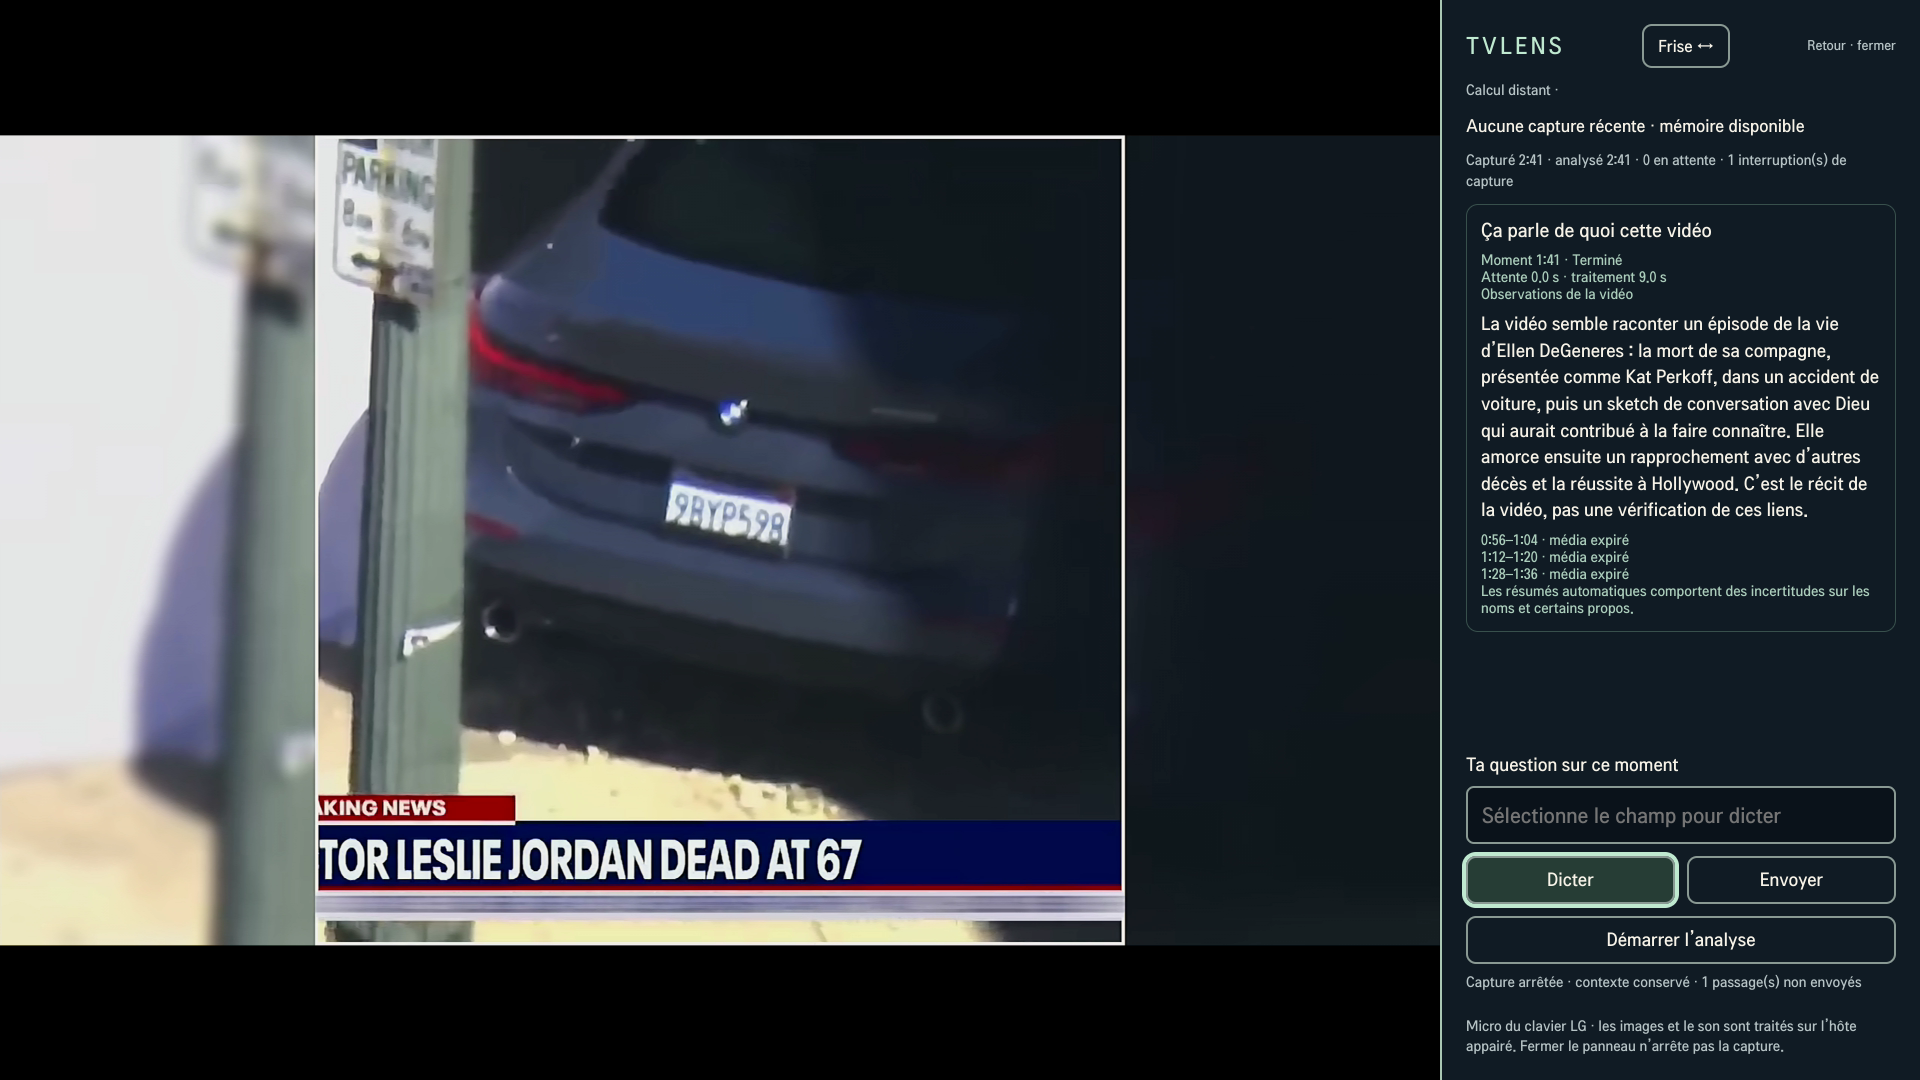
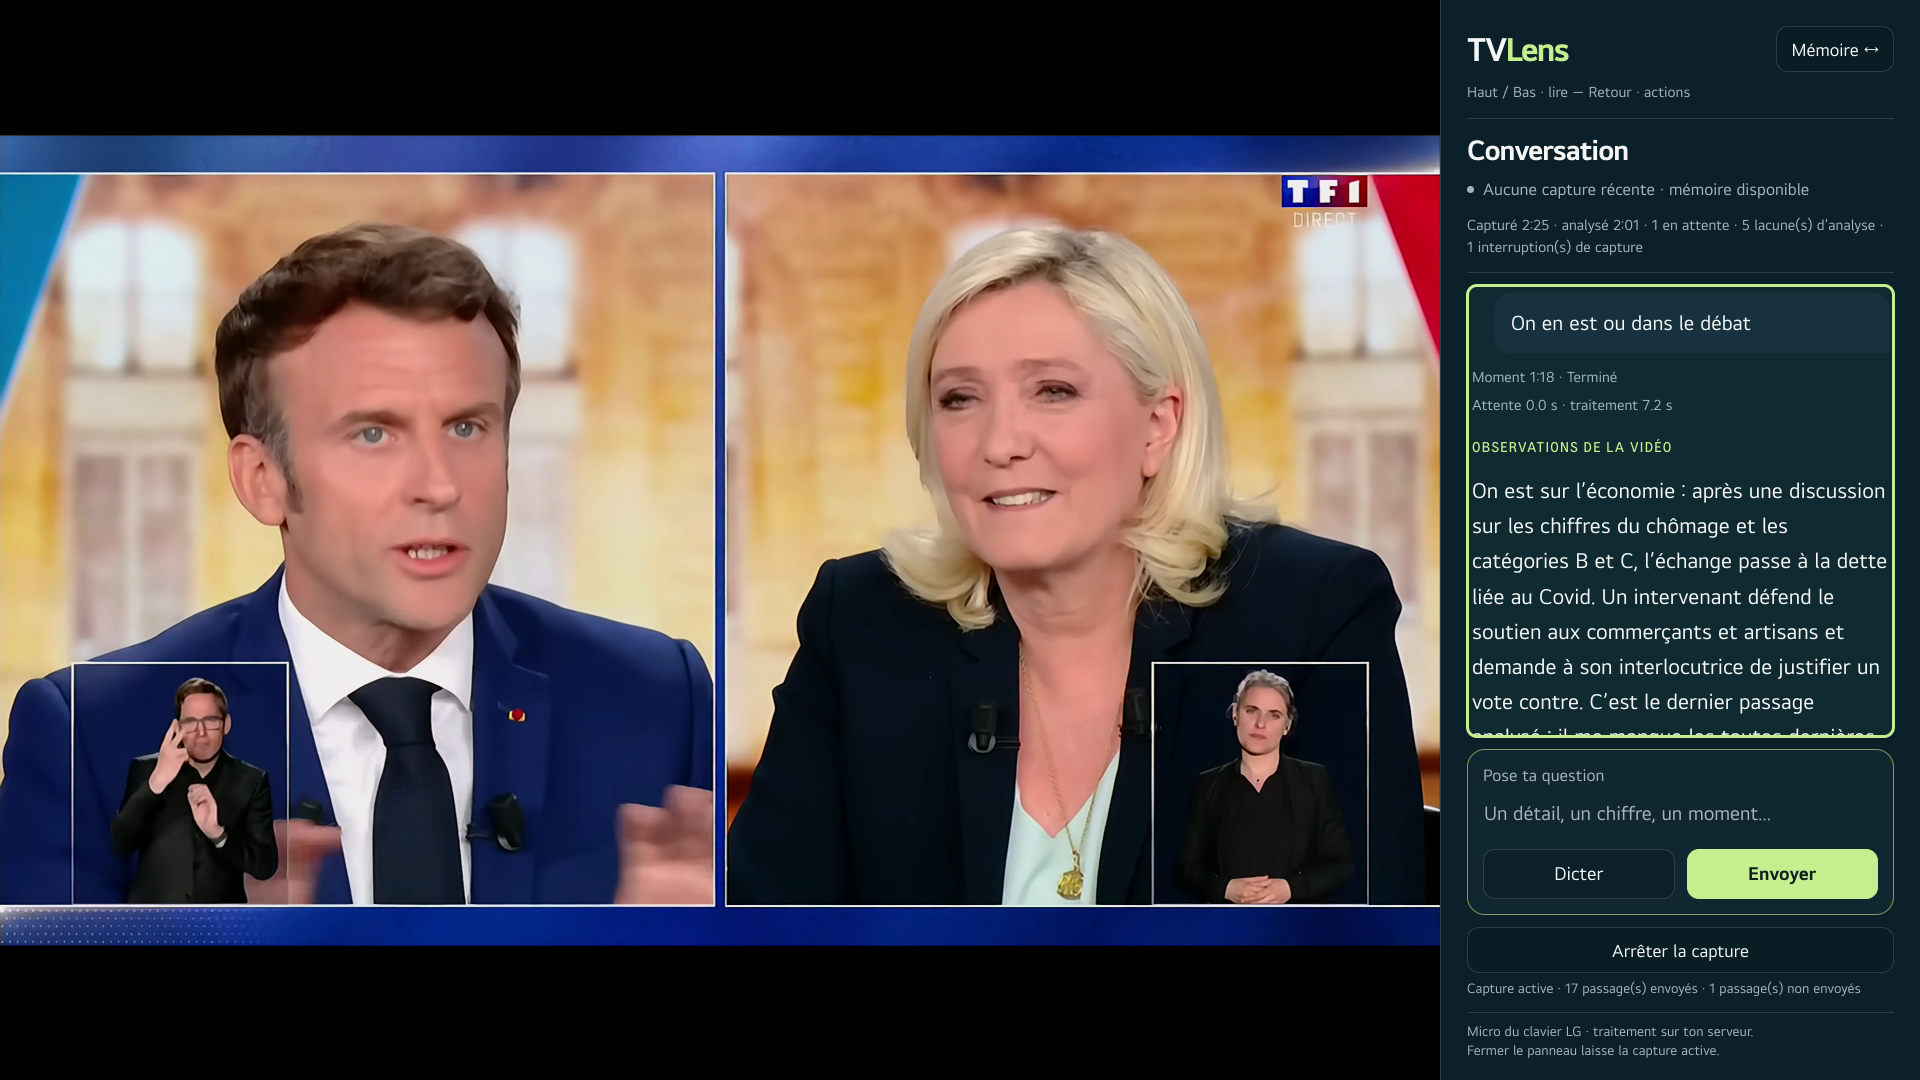
docs: refresh LG companion screenshots with live debate

diff --git a/screenshots/lg/README.md b/screenshots/lg/README.md
@@ -1,12 +1,12 @@
 # Aperçus du compagnon LG
 
-Visuels fournis par le propriétaire du projet le 30 septembre 2026 pour présenter l’interface TV. Leur provenance de capture n’a pas été vérifiée indépendamment ; ils ne constituent pas un rapport de test.
+Captures réelles de la TV LG prises le 2 octobre 2026, en 1920 × 1080, via le service de capture de la TV pendant la lecture sur YouTube du débat Emmanuel Macron – Marine Le Pen.
 
 | Fichier | Vue |
 | --- | --- |
-| `chat.png` | Conversation à droite du programme, dictée et contrôle de capture |
+| `chat.png` | Conversation à droite du programme, avec la question « On en est où dans le débat » et la réponse contextuelle |
 | `timeline.png` | Frise des moments sous la vidéo, avec une carte sélectionnée |
 
-L’adresse réseau de la vue chat est masquée par un rectangle opaque appliqué localement. Une comparaison pixel par pixel confirme que seule cette zone a changé. Les métadonnées des deux fichiers ont été retirées ; aucune retouche générative n’a été appliquée.
+Les captures sont conservées sans retouche. La vérification visuelle n’a révélé aucune adresse réseau ni identifiant privé. Les états de capture et les éventuelles lacunes d’analyse restent visibles ; ces images ne constituent pas à elles seules un rapport de validation.
 
 Les images du programme et les marques visibles appartiennent à leurs ayants droit respectifs. Ces visuels ne concernent pas le film *Spring* utilisé dans les captures Mac. Les observations et réponses affichées peuvent contenir des erreurs et ne vérifient pas les affirmations du programme.

diff --git a/README.md b/README.md
@@ -78,7 +78,7 @@ Sur la **LG 75QNED87T rootée de test**, YouTube continue pendant que TVLens pro
 
 ![Aperçu du compagnon LG : vidéo au-dessus et frise des moments en bas](screenshots/lg/timeline.png)
 
-*Aperçus fournis pour la présentation du compagnon LG ; adresse réseau masquée sur la vue chat. Les descriptions visibles sont des observations automatiques, pas des faits vérifiés. [À propos des visuels](screenshots/lg/README.md).*
+*Captures réelles du compagnon LG prises le 2 octobre 2026 pendant un débat sur YouTube. Les descriptions visibles sont des observations automatiques, pas des faits vérifiés. [À propos des visuels](screenshots/lg/README.md).*
 
 Les miniatures apparaissent dès réception ; titres et résumés arrivent avec l’analyse. Tu peux remonter le passé sans perdre ta position, ouvrir le détail, afficher les paroles ou **questionner ce moment** avec son intervalle attaché au chat. Les miniatures restent pendant la session, même après expiration du média détaillé.
 
